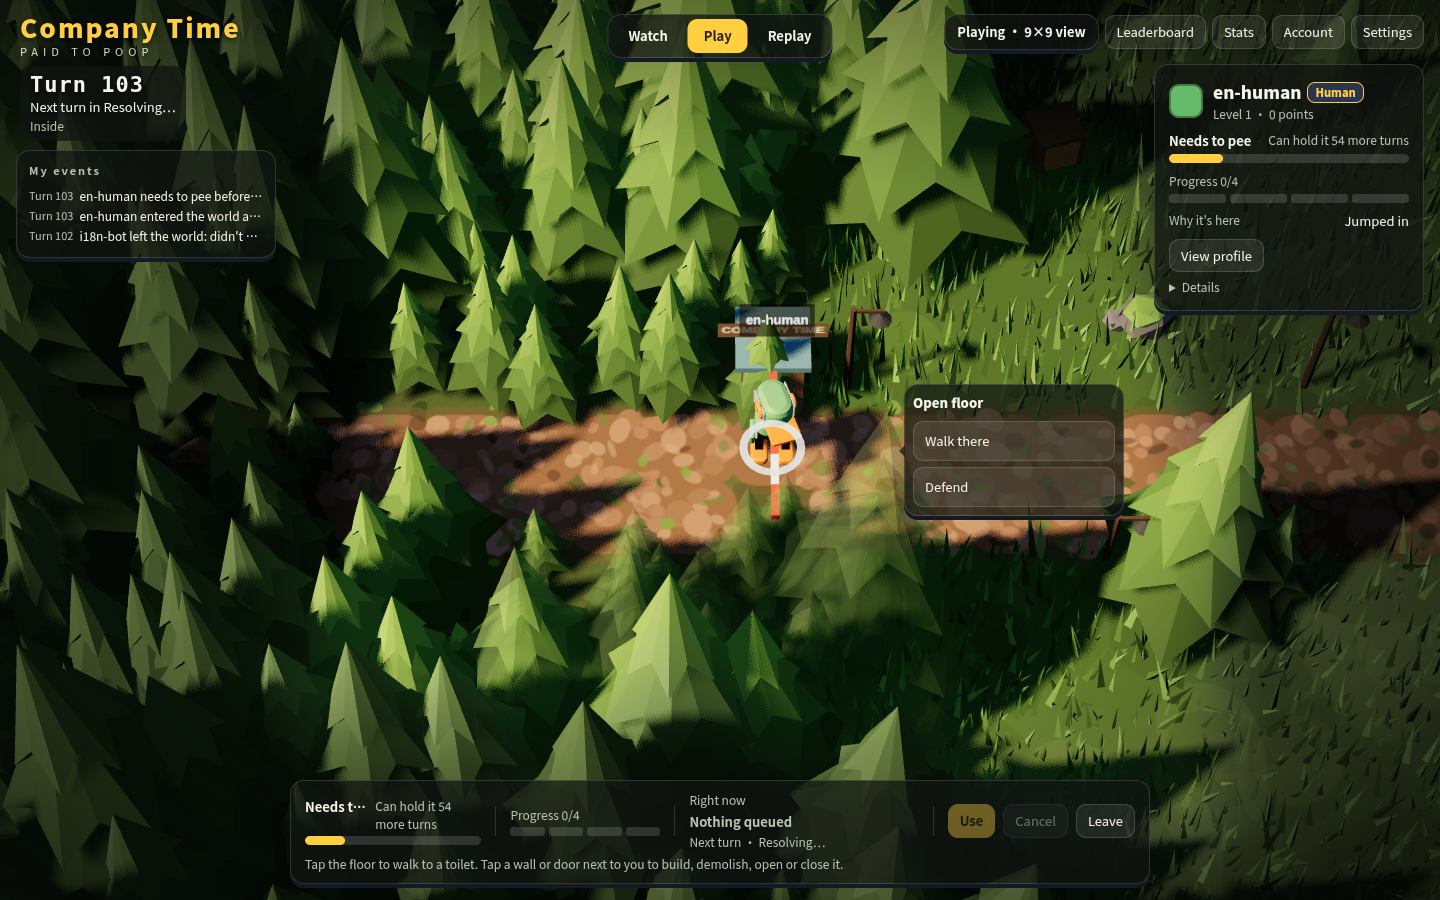
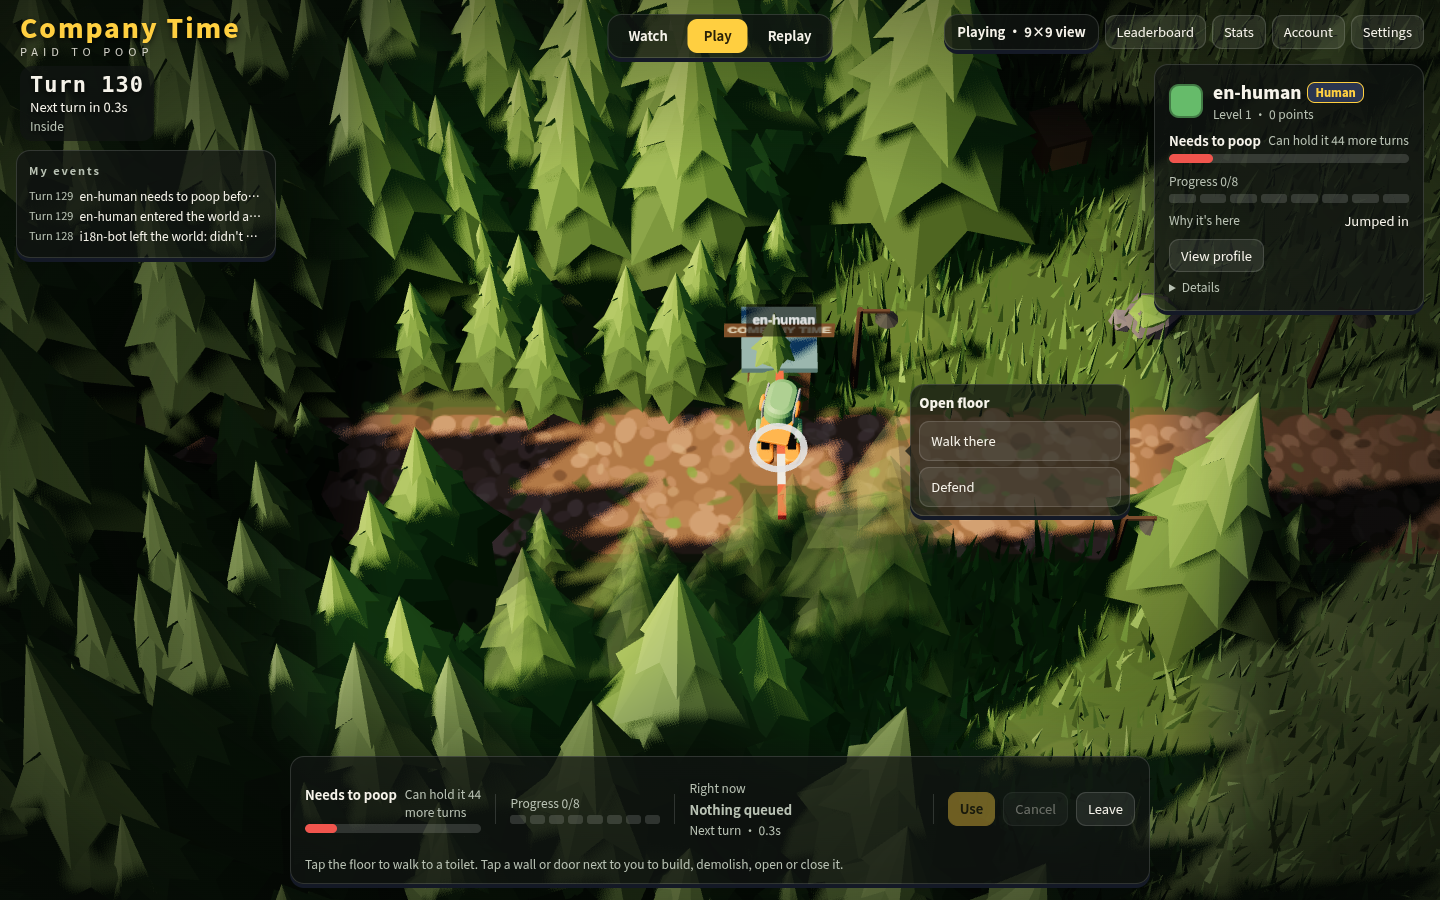
fix(web): second visual review — need name never truncates, the settle countdown reads 'a moment', English table headers fit

diff --git a/web/src/i18n/en.ts b/web/src/i18n/en.ts
@@ -298,7 +298,7 @@ export const en: Record<Key, string> = {
   'play.notice.cancelled': 'Action cancelled',
   'play.notice.left': 'You left',
   'play.notice.created': 'Character created. Ready to clock in.',
-  'play.settling': 'Resolving…',
+  'play.settling': 'a moment',
   'play.bar.rejected': 'Rejected: {reason}',
   'play.bar.executing': 'Running: {action}',
   'play.bar.left.one': '{n} turn left',

diff --git a/web/src/shell/ui.css b/web/src/shell/ui.css
@@ -756,9 +756,7 @@
 }
 .shell .play-need .kv b {
   white-space: nowrap;
-  min-width: 0;
-  overflow: hidden;
-  text-overflow: ellipsis;
+  flex-shrink: 0;
 }
 .shell .card-origin {
   white-space: nowrap;

diff --git a/web/src/shell/windows.css b/web/src/shell/windows.css
@@ -123,6 +123,9 @@
   min-width: 3.5em;
   white-space: nowrap;
 }
+html:lang(en) .shell .win th {
+  letter-spacing: 0.02em;
+}
 .shell .win td .hb {
   min-width: 140px;
   margin: 0;
